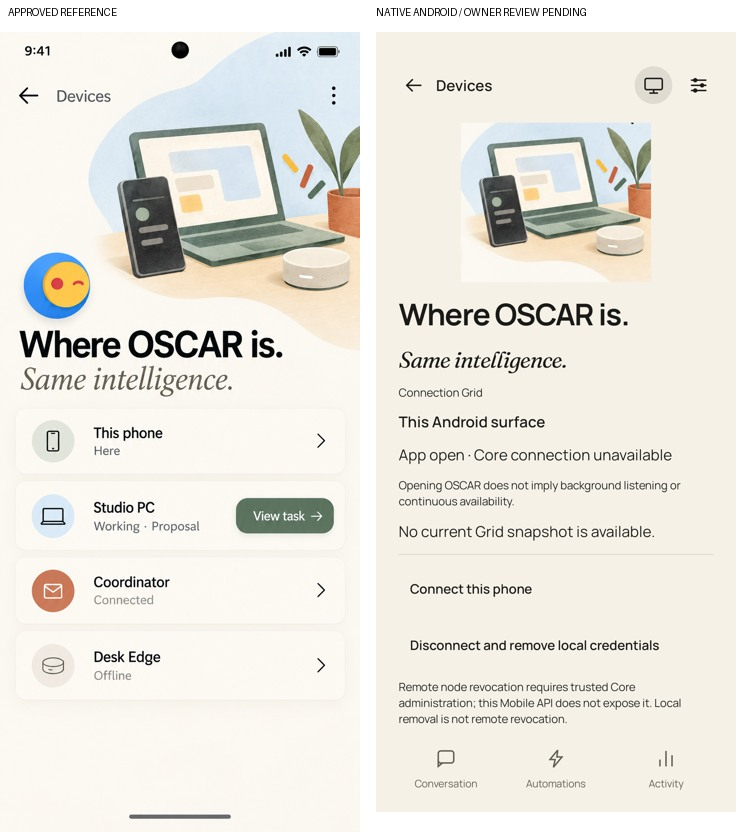
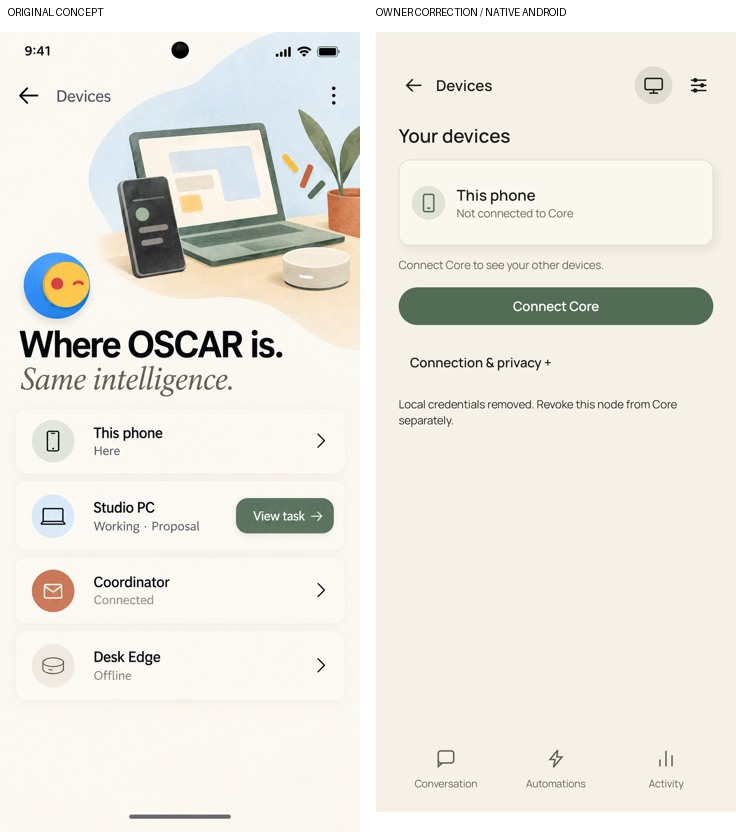
refine(mobile): make Devices a compact functional list

diff --git a/mobile/app/src/main/java/io/dawnlight/oscar/mobile/DevicesScreen.kt b/mobile/app/src/main/java/io/dawnlight/oscar/mobile/DevicesScreen.kt
@@ -5,40 +5,52 @@ import androidx.compose.material3.*
 import androidx.compose.runtime.*
 import androidx.compose.ui.Modifier
 import androidx.compose.ui.platform.testTag
+import androidx.compose.ui.semantics.*
 import androidx.compose.ui.unit.dp
 import androidx.compose.animation.animateContentSize
 import androidx.compose.animation.core.tween
 
 @Composable fun DevicesScreen(state: MobileState, connect: () -> Unit, disconnect: () -> Unit) {
-    Illustration(R.drawable.illustration_devices, height = 170.dp)
-    EditorialHeading("Where OSCAR is.", "Same intelligence.")
-    Text("Connection Grid", style = MaterialTheme.typography.bodySmall)
-    Text("This Android surface", style = MaterialTheme.typography.titleMedium)
-    Text(if (state.link == Link.CONNECTED) "Here · scoped Core session connected" else "App open · Core connection unavailable")
-    Text("Opening OSCAR does not imply background listening or continuous availability.", style = MaterialTheme.typography.bodySmall)
-    if (state.snapshot == null) Text("No current Grid snapshot is available.")
-    state.snapshot?.nodes?.sortedBy { if (it.id == state.connectedNode) 0 else 1 }?.forEach { node ->
-        var expanded by remember(node.id, state.epoch) { mutableStateOf(false) }
-        val active = state.snapshot.tasks.filter { (it.target == node.id || it.originNode == node.id) && it.state !in setOf("verified", "partially_verified", "failed", "cancelled") }
-        HorizontalDivider()
-        TextButton(onClick = { expanded = !expanded }, modifier = Modifier.fillMaxWidth().testTag("device-${node.id}")) {
-            Column(Modifier.fillMaxWidth(), verticalArrangement = Arrangement.spacedBy(4.dp)) {
-                Text(if (node.id == state.connectedNode && node.role == "OSCAR Mobile") "This phone" else node.role, style = MaterialTheme.typography.titleMedium)
-                Text("${node.status} · ${if (node.paired) "Paired" else "Not paired"}${if (active.isNotEmpty()) " · ${active.size} associated active tasks" else ""}")
+    Text("Your devices", style = MaterialTheme.typography.titleLarge)
+    TactileSurface(Modifier.fillMaxWidth()) {
+        FeatureRow("This phone", when (state.link) {
+            Link.CONNECTED -> "Connected to Core"
+            Link.CONNECTING -> "Connecting to Core…"
+            Link.DEGRADED -> "Core connection lost"
+            Link.DISCONNECTED -> "Not connected to Core"
+        }, "Phone")
+    }
+    val snapshot = state.snapshot.takeIf { state.link == Link.CONNECTED }
+    val nodes = snapshot?.nodes?.filterNot { it.id == state.connectedNode && it.role == "OSCAR Mobile" }
+    if (nodes.isNullOrEmpty()) {
+        StatusLabel(if (snapshot == null) "Connect Core to see your other devices." else "No other devices listed.")
+    } else {
+        Text("Other devices", style = MaterialTheme.typography.titleMedium)
+        nodes.forEach { node ->
+            var expanded by remember(node.id, state.epoch) { mutableStateOf(false) }
+            val active = snapshot?.tasks.orEmpty().filter { (it.target == node.id || it.originNode == node.id) && it.state !in setOf("verified", "partially_verified", "failed", "cancelled") }
+            HorizontalDivider()
+            FeatureRow(node.role, node.status.replaceFirstChar { it.uppercase() } +
+                (if (!node.paired) " · Not paired" else "") +
+                (if (active.isNotEmpty()) " · ${active.size} ${if (active.size == 1) "work item" else "work items"}" else ""),
+                if (node.role == "OSCAR Mobile") "Phone" else "Devices", action = { expanded = !expanded },
+                modifier = Modifier.testTag("device-${node.id}").semantics { stateDescription = if (expanded) "Expanded" else "Collapsed" })
+            Column(Modifier.fillMaxWidth().animateContentSize(tween(if (LocalReducedMotion.current) 0 else 200))) {
+                if (expanded) {
+                    Text("Capabilities", style = MaterialTheme.typography.titleMedium)
+                    Text(if (node.capabilities.isEmpty()) "No currently advertised executor capabilities" else node.capabilities.distinct().joinToString("\n"), style = MaterialTheme.typography.bodySmall)
+                    active.forEach { Text("${it.label} · ${it.description}", style = MaterialTheme.typography.bodyMedium) }
+                    Text("Device ID: ${node.id} · ${if (node.paired) "Paired" else "Not paired"}", style = MaterialTheme.typography.bodySmall)
+                }
             }
         }
-        Column(Modifier.fillMaxWidth().animateContentSize(tween(if (LocalReducedMotion.current) 0 else 200))) {
-        if (expanded) {
-            Text(node.id, style = MaterialTheme.typography.bodySmall)
-            Text(if (node.capabilities.isEmpty()) "No currently advertised executor capabilities" else node.capabilities.distinct().joinToString("\n"))
-            active.forEach { Text("${it.label} · ${it.description}") }
-            Text("Supervise authorized tasks in Activity. No power or wake command is exposed by this Mobile contract.", style = MaterialTheme.typography.bodySmall)
-        }
-        }
     }
-    HorizontalDivider()
-    TextButton(onClick = connect) { Text("Connect this phone") }
-    TextButton(onClick = disconnect) { Text("Disconnect and remove local credentials") }
-    Text("Remote node revocation requires trusted Core administration; this Mobile API does not expose it. Local removal is not remote revocation.", style = MaterialTheme.typography.bodySmall)
-    Text("Home Node · unsupported until commissioned. Cloud and Edge appear only when actually configured.", style = MaterialTheme.typography.bodySmall)
+    if (state.link != Link.CONNECTED) Button(onClick = connect, enabled = state.link != Link.CONNECTING && !state.restoring,
+        modifier = Modifier.fillMaxWidth(), colors = ButtonDefaults.buttonColors(containerColor = Sage)) { Text("Connect Core") }
+    SupportingDetails("Connection & privacy") {
+        if (state.link == Link.CONNECTED) TextButton(onClick = connect) { Text("Change Core connection") }
+        TextButton(onClick = disconnect) { Text("Disconnect and remove local credentials") }
+        Text("Local disconnect removes this app’s credentials. Remote revocation is a separate Core action.", style = MaterialTheme.typography.bodySmall)
+        Text("Background listening, power and wake controls are not enabled here. Cloud, Edge and Home Node appear only when commissioned.", style = MaterialTheme.typography.bodySmall)
+    }
 }

diff --git a/mobile/app/src/androidTest/java/io/dawnlight/oscar/mobile/MobileCompletionTest.kt b/mobile/app/src/androidTest/java/io/dawnlight/oscar/mobile/MobileCompletionTest.kt
@@ -260,6 +260,8 @@ class MobileCompletionTest {
         assertEquals("Desktop", desktop.origin); assertEquals("group02-reference-desktop", desktop.originNode)
         assertFalse(desktop.description.contains("8 + 9")); assertFalse("approve" in desktop.actions)
         compose.onNodeWithTag("destination-DEVICES").performClick()
+        compose.onNodeWithTag("device-group02-reference-desktop").assertTextContains("Online · 1 work item")
+        capture("devices-connected-compact")
         compose.onNodeWithTag("device-group02-reference-desktop").performScrollTo().performClick()
         compose.onNodeWithText("No currently advertised executor capabilities").assertExists()
         capture("13-4-reference-grid")
@@ -271,11 +273,12 @@ class MobileCompletionTest {
             compose.waitUntil(15_000) { session.state.value.link == Link.DEGRADED }
             assertNull(session.state.value.snapshot); assertNull(session.state.value.approval)
             compose.onNodeWithTag("destination-DEVICES").performClick()
-            compose.onNodeWithText("No current Grid snapshot is available.").assertExists()
+            compose.onNodeWithText("Connect Core to see your other devices.").assertExists()
         } finally { control("network_on") }
         compose.runOnIdle { session.refreshNow() }
         compose.waitUntil(10_000) { session.state.value.link == Link.CONNECTED }
         assertTrue(session.state.value.snapshot!!.tasks.any { it.id == desktop.id })
+        compose.onNodeWithText("Connection & privacy").performScrollTo().performClick()
         compose.onNodeWithText("Disconnect and remove local credentials").performScrollTo().performClick()
         compose.waitUntil(5000) { SessionVault(compose.activity).load() == null }
         assertNull(session.state.value.snapshot)

diff --git a/mobile/app/src/main/java/io/dawnlight/oscar/mobile/MobileDesign.kt b/mobile/app/src/main/java/io/dawnlight/oscar/mobile/MobileDesign.kt
@@ -142,6 +142,7 @@ val OscarTypography = Typography(
             "Voice" -> { drawRoundRect(color,androidx.compose.ui.geometry.Offset(9*s,3*s),androidx.compose.ui.geometry.Size(6*s,12*s),androidx.compose.ui.geometry.CornerRadius(3*s),style=stroke); path(5f to 11f,5f to 16f,12f to 19f,19f to 16f,19f to 11f); line(12f,19f,12f,23f) }
             "Add" -> { line(12f,4f,12f,20f); line(4f,12f,20f,12f) }
             "Devices" -> { drawRoundRect(color,androidx.compose.ui.geometry.Offset(2*s,4*s),androidx.compose.ui.geometry.Size(20*s,13*s),androidx.compose.ui.geometry.CornerRadius(2*s),style=stroke); line(12f,17f,12f,21f); line(7f,21f,17f,21f) }
+            "Phone" -> { drawRoundRect(color,androidx.compose.ui.geometry.Offset(6*s,2*s),androidx.compose.ui.geometry.Size(12*s,20*s),androidx.compose.ui.geometry.CornerRadius(2*s),style=stroke); line(10f,18f,14f,18f) }
             else -> { for (y in listOf(6f,12f,18f)) { line(3f,y,21f,y); drawCircle(color,2.5f*s,androidx.compose.ui.geometry.Offset((if(y==12f) 16f else 8f)*s,y*s)) } }
         }
     }

diff --git a/mobile/app/src/androidTest/java/io/dawnlight/oscar/mobile/MobileEmulatedTest.kt b/mobile/app/src/androidTest/java/io/dawnlight/oscar/mobile/MobileEmulatedTest.kt
@@ -23,9 +23,9 @@ class MobileEmulatedTest {
         compose.onNodeWithTag("destination-ACTIVITY").performClick()
         compose.onNodeWithText("Ongoing work").assertIsDisplayed()
         compose.onNodeWithTag("destination-DEVICES").performClick()
-        compose.onNodeWithText("Connection Grid").assertIsDisplayed()
+        compose.onNodeWithText("Your devices").assertIsDisplayed()
         compose.activityRule.scenario.recreate()
-        compose.onNodeWithText("Connection Grid").assertIsDisplayed()
+        compose.onNodeWithText("Your devices").assertIsDisplayed()
         compose.onNodeWithTag("destination-SETTINGS").performClick()
         compose.onNodeWithText("Privacy").performClick()
         compose.onNodeWithText("Permissions & privacy").assertIsDisplayed()

diff --git a/mobile/app/src/androidTest/java/io/dawnlight/oscar/mobile/MobileVisualTest.kt b/mobile/app/src/androidTest/java/io/dawnlight/oscar/mobile/MobileVisualTest.kt
@@ -59,7 +59,7 @@ class MobileVisualTest {
         compose.onNodeWithText("Not connected · no commitments retrieved").assertExists()
         capture("13-today-chief-of-staff")
         compose.onNodeWithTag("destination-DEVICES").performClick()
-        compose.onNodeWithText("No current Grid snapshot is available.").assertExists()
+        compose.onNodeWithText("Connect Core to see your other devices.").assertExists()
         capture("11-devices")
         compose.onNodeWithTag("destination-SETTINGS").performClick()
         compose.onNodeWithText("Make OSCAR").assertIsDisplayed()

diff --git a/docs/ui/mobile/group25b/COMPARISONS.md b/docs/ui/mobile/group25b/COMPARISONS.md
@@ -24,7 +24,7 @@ are deliberately not copied from the concepts.
 | 08 | [Activity](comparisons/08-activity-feed.jpg) | Graphite theme/sage filters and tactile timeline rows; removed duplicated descriptions and primary debugger metadata | Current Core work or honest disconnected feed, no invented sample events |
 | 09 | [Task](comparisons/09-active-task.jpg) | Original laptop artwork, full-screen task/status/result/evidence; fresh Core-advertised actions | No invented pause/progress; target/verification detail reflects actual readback |
 | 10 | [Decision](comparisons/10-approval-decision.jpg) | Original decision artwork, exact reviewed material/consequences, sage native confirmation, fresh denial review and expiry | No tap-as-execution, no fabricated calendar mutation; biometric/PIN activation not silently passed |
-| 11 | [Devices](comparisons/11-devices.jpg) | Original device artwork and editorial hierarchy, actual expandable nodes/capabilities; fixed inherited scroll clipping | No sample Studio PC/Edge/cloud connections; power/wake unavailable |
+| 11 | [Devices](comparisons/11-devices.jpg) | Owner correction removes the promotional hero/slogan; compact local-phone status and actual expandable device rows; connection action and on-demand details | Original concept retained as history; current owner direction supersedes its Devices composition. No sample connections or power/wake claims |
 | 12 | [Awareness](comparisons/12-sentry-awareness.jpg) | Original evening-room artwork, graphite surface, sage Manual selection and independent privacy rows | Sentry/trigger/capture uncommissioned; no false activation or observation |
 | 13 | [Today](comparisons/13-today-chief-of-staff.jpg) | Illustrated day path, editorial date/heading and native planning entry; fixed inherited scroll clipping | Provider/calendar/weather/communications unavailable, no invented commitments |
 | 14 | [Access](comparisons/14-access-modes.jpg) | Canonical Orb, Ask/Secure/genuine Full Access semantics, clear unavailable activation | Signed delegation/revocation not integrated; controls cannot bypass confirmation |

diff --git a/docs/ui/mobile/group25b/README.md b/docs/ui/mobile/group25b/README.md
@@ -171,3 +171,17 @@ Physical review-package process replacement is verified: a synthetic encrypted
 draft was prepared, the app PID was replaced with scoped force-stop/relaunch,
 and Android's resulting UI contained the recovered draft. The fixture was then
 cleared. This is recovery evidence, not owner microphone or biometric acceptance.
+
+## Devices owner correction — 2026-10-15
+
+The owner rejected the illustration-led Devices page as promotional and too
+text-heavy. Devices now starts with a compact local-phone connection row and
+actual Core-reported device rows. The hero artwork and slogan are removed from
+this page; the original source image remains preserved. Capabilities, work items
+and IDs expand within each device. Connection/privacy explanation and local
+disconnect are under an explicit disclosure. Offline/degraded state hides Grid
+readback; no sample devices, background awareness or power controls are invented.
+
+The supplemental `devices-review.json` records this focused follow-up separately
+from the earlier full-suite receipt. Current disconnected/connected captures and
+the refreshed comparison are provided for owner visual review.
